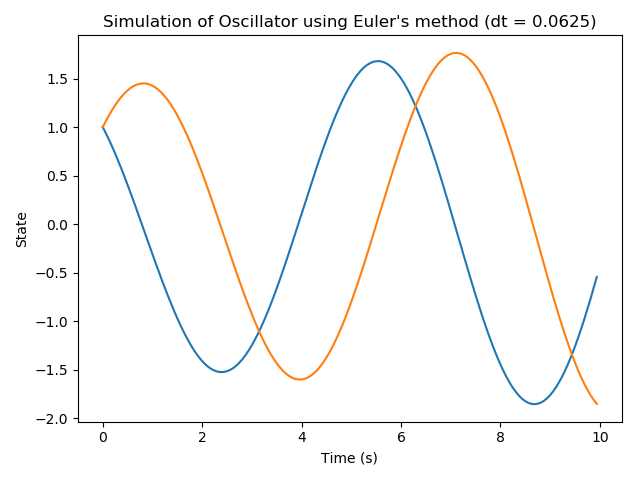
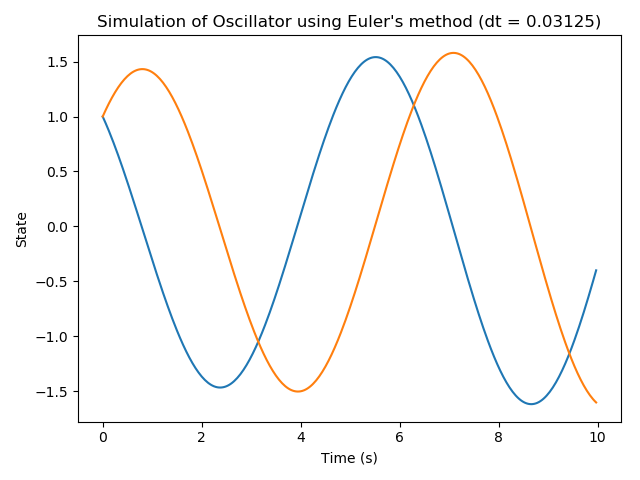
fixed timesteps and corresponding plots

diff --git a/Q1.py b/Q1.py
@@ -76,8 +76,8 @@ def use_ivp():
 
 def find_timestep(method):
 
-	dts = [1, 0.5, 0.25, 0.125, 0.0625, 0.0375, \
-			0.01875, 0.009285, 0.0046425, 0.00232125]
+	dts = [1, 0.5, 0.25, 0.125, 0.0625, 0.03125, \
+			0.015625, 0.0078125, 0.00390625, 0.001953125]
 
 	if method == "euler":
 		for i in range(len(dts)):
